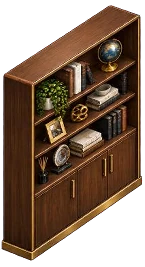
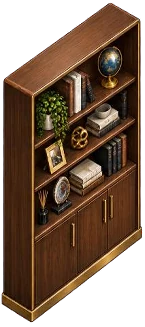
Office: CEO suite and bedroom furniture sheared onto the room's grid (sofa, table, desk, shelf, lamp, bed sit parallel to walls and rug); bigger COO MacBook on the table top
Claude-Session: https://claude.ai/code/session_014QPjQaWDAzASPKphvhVXZU

diff --git a/scripts/office/build_furniture.py b/scripts/office/build_furniture.py
@@ -13,25 +13,30 @@ ROOT = os.path.dirname(os.path.dirname(os.path.dirname(os.path.abspath(__file__)
 SRC = f'{ROOT}/assets/office/furniture-src'
 OUT = f'{ROOT}/apps/dashboard/public/office/furniture'
 C, D = -0.148, 0.931
+# The luxury / bedroom renders are true 2:1 iso; this shear maps their axes exactly onto the painting's grid
+# (down-right slope 23.9/40.5, up-right slope -28/37.8) so they sit parallel to the walls and rugs.
+TRUE_ISO = {'sofa', 'coffee_table', 'ceo_desk', 'bookshelf', 'bookshelf_m', 'floor_lamp', 'ceo_plant', 'bed', 'bed_sleep',
+            'laptop_back', 'laptop_front', 'laptop_back_m', 'laptop_front_m'}
+C_ISO, D_ISO = -0.07, 1.2
 WORLD = 2  # background is 2x the 1x layout pixels
 SCALE = {  # 1x picture px per source px
     'desk_dual': 0.45, 'desk_single': 0.45, 'desk_design': 0.45, 'desk_qa': 0.5, 'desk_exec': 0.45,
     'chair_ur': 0.2, 'chair_dl': 0.2, 'chair_dr': 0.2,
     'ceo_desk': 0.39, 'ceo_chair': 0.16, 'sofa': 0.36, 'coffee_table': 0.2, 'bookshelf': 0.34, 'ceo_plant': 0.25, 'floor_lamp': 0.3,
-    'bed': 0.75, 'bed_sleep': 0.83, 'laptop_back': 0.45, 'laptop_front': 0.4, 'laptop_back_m': 0.45, 'laptop_front_m': 0.4, 'bookshelf_m': 0.34,
+    'bed': 0.75, 'bed_sleep': 0.83, 'laptop_back': 0.58, 'laptop_front': 0.52, 'laptop_back_m': 0.58, 'laptop_front_m': 0.52, 'bookshelf_m': 0.34,
     'treadmill': 0.3, 'dumbbell_rack': 0.22, 'bench': 0.24, 'bike': 0.24, 'yoga_mat': 0.24, 'plant': 0.2,
 }
 SCREENS = {  # monitor faces in source px (TL, TR, BR, BL)
     'desk_dual': [[[86, 3], [172, 58], [172, 133], [86, 76]], [[179, 63], [263, 116], [262, 192], [179, 139]]],
     'desk_single': [[[103, 0], [227, 80], [226, 169], [102, 88]]],
 }
-def shear(im, s):
+def shear(im, s, C=C, D=D):
     w, h = im.size
     ys = [s*(C*x + D*y) for x in (0, w) for y in (0, h)]
     oy = -min(ys); H = int(np.ceil(max(ys) + oy)) + 1; Wn = int(np.ceil(s*w)) + 1
     a = (1/s, 0, 0, -C/(s*D), 1/(s*D), -oy/(s*D))
     return im.transform((Wn, H), Image.AFFINE, a, resample=Image.BICUBIC), oy
-def fwd(x, y, s, oy): return [round(s*x, 2), round(s*(C*x + D*y) + oy, 2)]
+def fwd(x, y, s, oy, C=C, D=D): return [round(s*x, 2), round(s*(C*x + D*y) + oy, 2)]
 os.makedirs(OUT, exist_ok=True)
 man = {}
 for name, s1 in SCALE.items():
@@ -39,13 +44,14 @@ for name, s1 in SCALE.items():
     a = np.asarray(im)[..., 3]; ys, xs = np.where(a > 128)
     ay = int(ys.max()); ax = float(xs[ys >= ay - 6].mean())
     s = s1 * WORLD
-    out, oy = shear(im, s)
+    cd = (C_ISO, D_ISO) if name in TRUE_ISO else (C, D)
+    out, oy = shear(im, s, *cd)
     out.save(f'{OUT}/{name}.webp', quality=90, method=6)
-    A = fwd(ax, ay, s, oy)
+    A = fwd(ax, ay, s, oy, *cd)
     W = (ax - xs.min()) * s1 / 40.5
     Dp = (xs.max() - ax) * s1 / 37.8
     e = {'src': f'/office/furniture/{name}.webp', 'w': out.width, 'h': out.height, 'ax': A[0], 'ay': A[1], 'W': round(W, 3), 'D': round(Dp, 3)}
-    if name in SCREENS: e['screens'] = [[fwd(x, y, s, oy) for x, y in q] for q in SCREENS[name]]
+    if name in SCREENS: e['screens'] = [[fwd(x, y, s, oy, *cd) for x, y in q] for q in SCREENS[name]]
     man[name] = e
     print(name, e['w'], e['h'], e['ax'], e['ay'], e['W'], e['D'])
 json.dump({'version': 1, 'notes': 'Sheared furniture sprites (build_furniture.py). ax/ay = floor anchor in texture px; W/D = footprint in grid tiles.', 'items': man}, open(f'{OUT}/manifest.json', 'w'), indent=1)
